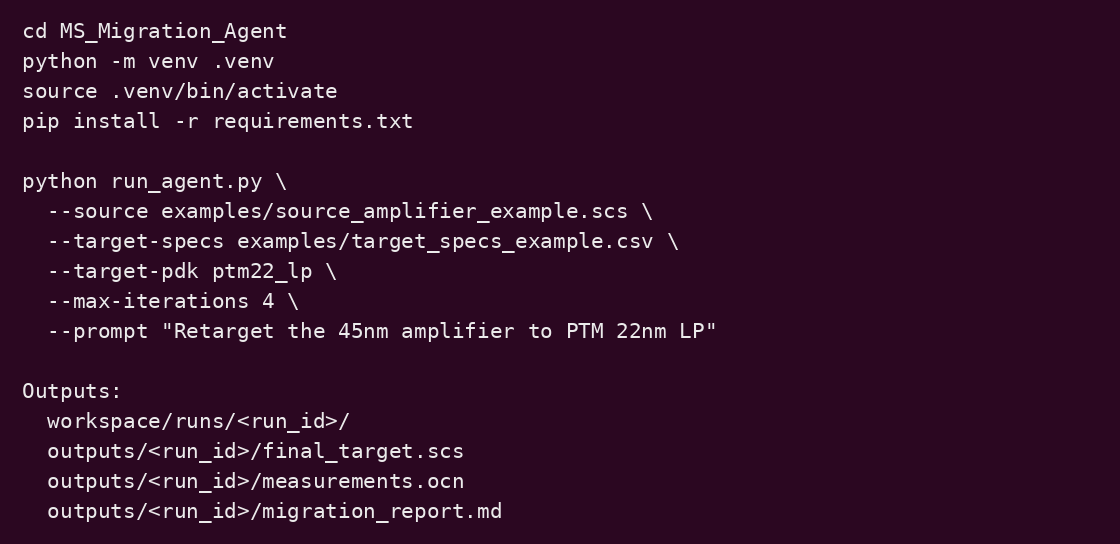
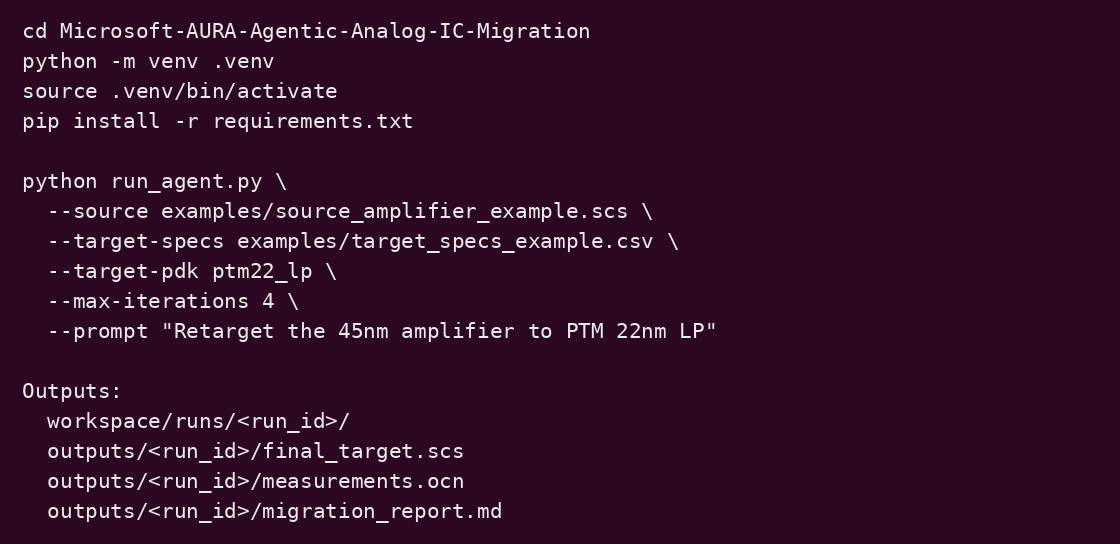
Prepare Microsoft AURA repository rename (#2)
Update README and presentation artifacts for Microsoft-AURA-Agentic-Analog-IC-Migration while preserving the latest Dean's Favorite (Honored) recognition wording.

Changed region(s): [[0.0625, 0.0312, 0.5312, 0.0938]]

diff --git a/scripts/generate_agent_ppt.py b/scripts/generate_agent_ppt.py
@@ -251,7 +251,7 @@ def build_assets() -> dict[str, Path]:
     assets["tool_code"] = code_panel(file_text(BASE / "codex_agent" / "tools.py", 390, 468), ASSETS / "tools_code.png")
     cli = textwrap.dedent(
         """\
-        cd MS_Migration_Agent
+        cd Microsoft-AURA-Agentic-Analog-IC-Migration
         python -m venv .venv
         source .venv/bin/activate
         pip install -r requirements.txt

diff --git a/README.md b/README.md
@@ -7,9 +7,9 @@ netlists between process design kits (PDKs). It turns a source Spectre netlist,
 target specifications, and a migration prompt into a retargeted netlist,
 generated Ocean measurements, validation artifacts, and an optimization report.
 
-> **Recognition:** selected as a **Dean's Favorite (Honored)** project in the UC Irvine
-> M.Eng Capstone program. I developed the agent orchestration and EDA workflow
-> as part of an industry-sponsored capstone with Microsoft.
+> **Recognition:** selected as a **Dean's Favorite (Honored)** project in the
+> UC Irvine M.Eng Capstone program. I developed the agent orchestration and EDA
+> workflow as part of an industry-sponsored capstone with Microsoft.
 
 [Presentation deck](AURA_Agentic_Framework_Yunbo.pptx) ·
 [PDF preview](ppt_preview/AURA_Agentic_Framework_Yunbo.pdf) ·
@@ -62,8 +62,8 @@ optimization iteration.
 Python 3.10 or newer is recommended.
 
 ```bash
-git clone https://github.com/quantumdotsss/MS_Migration_Agent.git
-cd MS_Migration_Agent
+git clone https://github.com/quantumdotsss/Microsoft-AURA-Agentic-Analog-IC-Migration.git
+cd Microsoft-AURA-Agentic-Analog-IC-Migration
 
 python -m venv .venv
 source .venv/bin/activate
@@ -159,7 +159,7 @@ while separating the orchestration research from licensed EDA assets.
 
 Developed by **Yunbo Wang** for the **UC Irvine Samueli School of Engineering
 M.Eng Capstone**, in collaboration with Microsoft industry liaisons. The project
-was recognized as a **Dean's Favorite **.
+was recognized as a **Dean's Favorite (Honored)**.
 
 The included presentation documents the implemented agent framework, design
 decisions, current capabilities, and next steps.